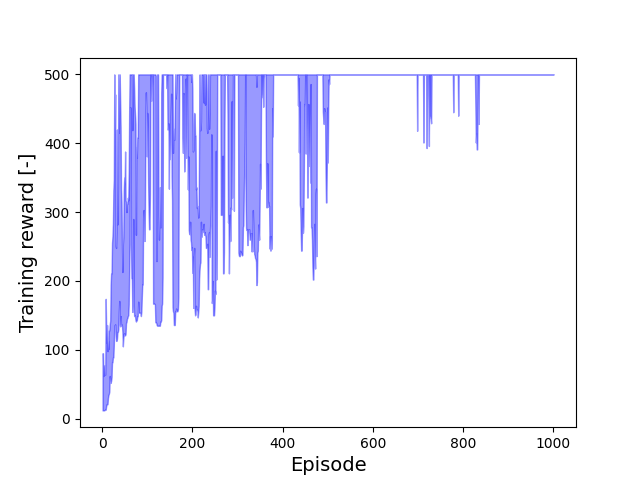
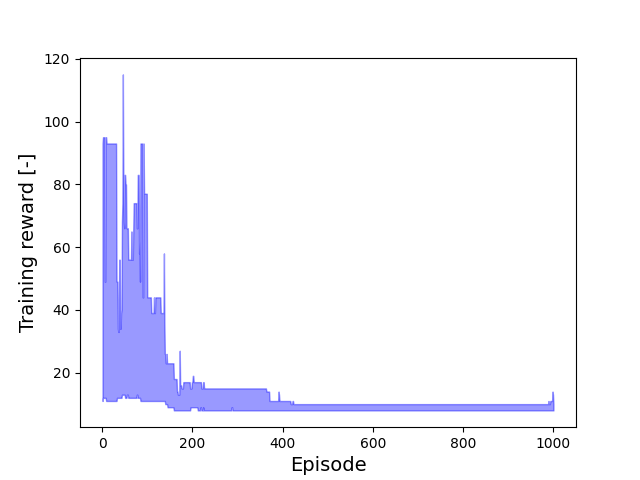
Started implementation of PPO GAE.

diff --git a/jaxagents/ppo.py b/jaxagents/ppo.py
@@ -308,7 +308,7 @@ class PPOAgentBase(ABC):
 
     @partial(jax.jit, static_argnums=(0,))
     def _returns(self, traj_batch: Transition, last_next_state_value: Float[Array, "batch_size"], gamma: float,
-                 lambda_: float) -> RETURNS_TYPE:
+                 gae_lambda: float) -> RETURNS_TYPE:
         """
         Calculates the returns of every step in the trajectory batch. To do so, it identifies episodes in the
         trajectories. Note that because lax.scan is used in sampling trajectories, they do not necessarily finish with
@@ -317,31 +317,72 @@ class PPOAgentBase(ABC):
         :param traj_batch: The batch of trajectories.
         :param last_next_state_value: The value of the last next state in each trajectory.
         :param gamma: Discount factor
-        :param lambda_: The λ factor.
+        :param gae_lambda: The GAE λ factor.
         :return: The returns over the episodes of the trajectory batch.
         """
 
         rewards_t = traj_batch.reward.squeeze()
-        # Remove first entry so that the next state values per step are in sync with the state rewards.
+        terminated_t = 1.0 - traj_batch.terminated.astype(jnp.float32).squeeze()
+        discounts_t = (terminated_t * gamma).astype(jnp.float32)
+
+        """Remove first entry so that the next state values per step are in sync with the state rewards."""
         next_state_values_t = jnp.concatenate(
             [traj_batch.value.squeeze(), last_next_state_value[..., jnp.newaxis]],
             axis=-1)[:, 1:]
-        discounts_t = 1.0 - traj_batch.terminated.astype(jnp.float32).squeeze()
-        discounts_t = (discounts_t * gamma).astype(jnp.float32)
 
         rewards_t, discounts_t, next_state_values_t = jax.tree_util.tree_map(
             lambda x: jnp.swapaxes(x, 0, 1), (rewards_t, discounts_t, next_state_values_t)
         )
 
-        lambda_ = jnp.ones_like(discounts_t) * lambda_
+        gae_lambda = jnp.ones_like(discounts_t) * gae_lambda
 
-        traj_runner = (rewards_t, discounts_t, next_state_values_t, lambda_)
+        traj_runner = (rewards_t, discounts_t, next_state_values_t, gae_lambda)
         end_value = jnp.take(next_state_values_t, -1, axis=0)  # Start from end of trajectory and work in reverse.
         _, returns = jax.lax.scan(self._trajectory_returns, end_value, traj_runner, reverse=True)
 
         returns = jax.tree_util.tree_map(lambda x: jnp.swapaxes(x, 0, 1), returns)
 
         return returns
+
+    @partial(jax.jit, static_argnums=(0,))
+    def _advantages(self, traj_batch: Transition, last_next_state_value: Float[Array, "batch_size"], gamma: float,
+                 gae_lambda: float) -> RETURNS_TYPE:
+        """
+        Calculates the advantage of every step in the trajectory batch. To do so, it identifies episodes in the
+        trajectories. Note that because lax.scan is used in sampling trajectories, they do not necessarily finish with
+        episode termination (episodes may be truncated). Also, since the environment is not re-initialized per sampling
+        step, trajectories do not start at the initial state.
+        :param traj_batch: The batch of trajectories.
+        :param last_next_state_value: The value of the last next state in each trajectory.
+        :param gamma: Discount factor
+        :param gae_lambda: The GAE λ factor.
+        :return: The returns over the episodes of the trajectory batch.
+        """
+
+        rewards_t = traj_batch.reward.squeeze()
+        values_t = traj_batch.value.squeeze()
+        terminated_t = 1.0 - traj_batch.terminated.astype(jnp.float32).squeeze()
+        # discounts_t = (terminated_t * gamma).astype(jnp.float32)
+        # gae_lambda_t = (terminated_t * gae_lambda).astype(jnp.float32)
+        gamma_t = jnp.ones_like(terminated_t) * gamma
+        gae_lambda_t = jnp.ones_like(terminated_t) * gae_lambda
+
+        """Remove first entry so that the next state values per step are in sync with the state rewards."""
+        next_state_values_t = jnp.concatenate(
+            [traj_batch.value.squeeze(), last_next_state_value[..., jnp.newaxis]],
+            axis=-1)[:, 1:]
+
+        rewards_t, values_t, next_state_values_t, terminated_t, gamma_t, gae_lambda_t = jax.tree_util.tree_map(
+            lambda x: jnp.swapaxes(x, 0, 1), (rewards_t, values_t, next_state_values_t, terminated_t, gamma_t, gae_lambda_t)
+        )
+
+        traj_runner = (rewards_t, values_t, next_state_values_t, terminated_t, gamma_t, gae_lambda_t)
+        end_value = jnp.take(next_state_values_t, -1, axis=0)  # Start from end of trajectory and work in reverse.
+        _, advantages = jax.lax.scan(self._trajectory_advantages, end_value, traj_runner, reverse=True)
+
+        advantages = jax.tree_util.tree_map(lambda x: jnp.swapaxes(x, 0, 1), advantages)
+
+        return advantages
 
     @partial(jax.jit, static_argnums=(0,))
     def _rollout(self, step_runner: STEP_RUNNER_TYPE, i_step: int) -> Tuple[STEP_RUNNER_TYPE, Transition]:
@@ -493,7 +534,14 @@ class PPOAgentBase(ABC):
             update_runner.hyperparams.gae_lambda
         )
 
-        actor_loss_input = self._actor_loss_input(update_runner, traj_batch, returns)
+        advantages = self._advantages(
+            traj_batch,
+            last_next_state_value,
+            update_runner.hyperparams.gamma,
+            update_runner.hyperparams.gae_lambda
+        )
+
+        actor_loss_input = self._actor_loss_input(update_runner, traj_batch, advantages)
         start_kl, start_epoch = -jnp.inf, 1
         actor_epoch_runner = (
             update_runner.actor_training,
@@ -559,6 +607,19 @@ class PPOAgentBase(ABC):
     def _trajectory_returns(self, value: Float[Array, "batch_size"], traj: Transition) -> Tuple[float, float]:
         """
         Calculates the returns per episode step over a batch of trajectories.
+        :param value: The values of the steps in the trajectory according to the critic (including the one of the last
+         state).
+        :param traj: The trajectory batch.
+        :return: An array of returns.
+        """
+
+        raise NotImplementedError
+
+    @abstractmethod
+    @partial(jax.jit, static_argnums=(0,))
+    def _trajectory_advantages(self, value: Float[Array, "batch_size"], traj: Transition) -> Tuple[float, float]:
+        """
+        Calculates the advantages per episode step over a batch of trajectories.
         :param value: The values of the steps in the trajectory according to the critic (including the one of the last
          state).
         :param traj: The trajectory batch.
@@ -779,7 +840,7 @@ class PPOAgentBase(ABC):
         return self._summary_stats(metric)
 
 
-class PPOClipAgent(PPOAgentBase):
+class PPOAgent(PPOAgentBase):
 
     """
     PPO clip agent
@@ -798,9 +859,27 @@ class PPOClipAgent(PPOAgentBase):
         :param traj: The trajectory batch.
         :return: An array of returns.
         """
-        rewards, discounts, next_state_values, lambda_ = traj
-        value = rewards + discounts * ((1 - lambda_) * next_state_values + lambda_ * value)
+        rewards, discounts, next_state_values, gae_lambda = traj
+        value = rewards + discounts * ((1 - gae_lambda) * next_state_values + gae_lambda * value)
         return value, value
+
+    @partial(jax.jit, static_argnums=(0,))
+    def _trajectory_advantages(self, gae: Float[Array, "batch_size"], traj: Transition) -> Tuple[float, float]:
+        """
+        Calculates the returns per episode step over a batch of trajectories. For the REINFORCE agent, this is
+        implemented as a weighted average between the discounted sum of rewards and the value according to the critic.
+        Weighting is performed via the GAE λ factor between the
+        :param gae: The GAE advantages of the steps in the trajectory according to the critic (including the one of
+        the last state). In the beginning of the method, 'advantage' is the advantage of the state in the next step in
+        the trajectory (not the reverse iteration), and after calculation it is the advantage of the examined state in
+        each step.
+        :param traj: The trajectory batch.
+        :return: An array of returns.
+        """
+        rewards, values, next_state_values, terminated, gamma, gae_lambda = traj
+        d_t = rewards + (1 - terminated) * gamma * next_state_values - values  # Temporal difference residual at time t
+        gae = d_t + gamma * gae_lambda * (1 - terminated) * gae
+        return gae, gae
 
     @partial(jax.jit, static_argnums=(0,))
     def _actor_loss(self, training: TrainState, state: Float[Array, "n_rollout batch_size state_size"],
@@ -848,23 +927,23 @@ class PPOClipAgent(PPOAgentBase):
 
     @partial(jax.jit, static_argnums=(0,))
     def _critic_loss(self, training: TrainState, state: Float[Array, "n_rollout batch_size state_size"],
-                     returns: RETURNS_TYPE, hyperparams: HyperParameters) -> Float[Array, "1"]:
+                     targets: RETURNS_TYPE, hyperparams: HyperParameters) -> Float[Array, "1"]:
         """
         Calculates the critic loss.
         :param training: The critic TrainState object.
         :param state: The states in the trajectory batch.
-        :param returns: The returns over the trajectory batch, which act as the targets for training the critic.
+        :param targets: The targets over the trajectory batch, which act as the targets for training the critic.
         :param hyperparams: The HyperParameters object used for training.
         :return: The critic loss.
         """
 
         value = training.apply_fn(training.params, state)
-        value_loss = jnp.mean((value - returns) ** 2)
+        value_loss = jnp.mean((value - targets) ** 2)
         critic_total_loss = hyperparams.vf_coeff * value_loss
         return critic_total_loss
 
     @partial(jax.jit, static_argnums=(0,))
-    def _actor_loss_input(self, update_runner: Runner, traj_batch: Transition, returns: RETURNS_TYPE) -> tuple:
+    def _actor_loss_input(self, update_runner: Runner, traj_batch: Transition, gae: RETURNS_TYPE) -> tuple:
         """
         Prepares the input required by the actor loss function. For the REINFORCE agent, this entails the:
         - the actions collected over the trajectory batch.
@@ -874,7 +953,7 @@ class PPOClipAgent(PPOAgentBase):
         - the training hyperparameters.
         :param update_runner: The update runner object used in training.
         :param traj_batch: The batch of trajectories.
-        :param returns: The returns over the trajectory batch.
+        :param gae: The GAE over the trajectory batch.
         :return: A tuple of input to the actor loss function.
         """
 
@@ -882,7 +961,7 @@ class PPOClipAgent(PPOAgentBase):
             traj_batch.state,
             traj_batch.action,
             traj_batch.log_prob,
-            returns,
+            gae,
             traj_batch.value,
             update_runner.hyperparams
         )
@@ -896,7 +975,7 @@ class PPOClipAgent(PPOAgentBase):
         - the training hyperparameters.
         :param update_runner: The update runner object used in training.
         :param traj_batch: The batch of trajectories.
-        :param returns: The returns over the trajectory batch.
+        :param gae: The GAE over the trajectory batch.
         :return: A tuple of input to the critic loss function.
         """
 

diff --git a/benchmarks/cartpole v1/cartpole_v1_ppo.py b/benchmarks/cartpole v1/cartpole_v1_ppo.py
@@ -47,7 +47,7 @@ if __name__ == '__main__':
     )
 
     """Set up agent"""
-    agent = ppo.PPOClipAgent(env, env_params, config)
+    agent = ppo.PPOAgent(env, env_params, config)
     print(agent.__str__())
 
     """Define optimizer parameters and training hyperparameters"""
@@ -68,6 +68,7 @@ if __name__ == '__main__':
 
     """Train agent"""
     t0 = time.time()
+    # with jax.disable_jit(True): runner, training_metrics = jax.block_until_ready(agent.train(rng_train, hyperparams))
     runner, training_metrics = jax.block_until_ready(agent.train(rng_train, hyperparams))
     print(f"time: {time.time() - t0:.2f} s")
 

diff --git a/setup.py b/setup.py
@@ -32,7 +32,7 @@ setup(
         "dev": []
     },
     python_requires=">=3.9.0",
-    version='0.1.2',
+    version='0.1.3',
     license='MIT',
     description='Implementation of Reinforcement Learning agents in JAX',
 )
